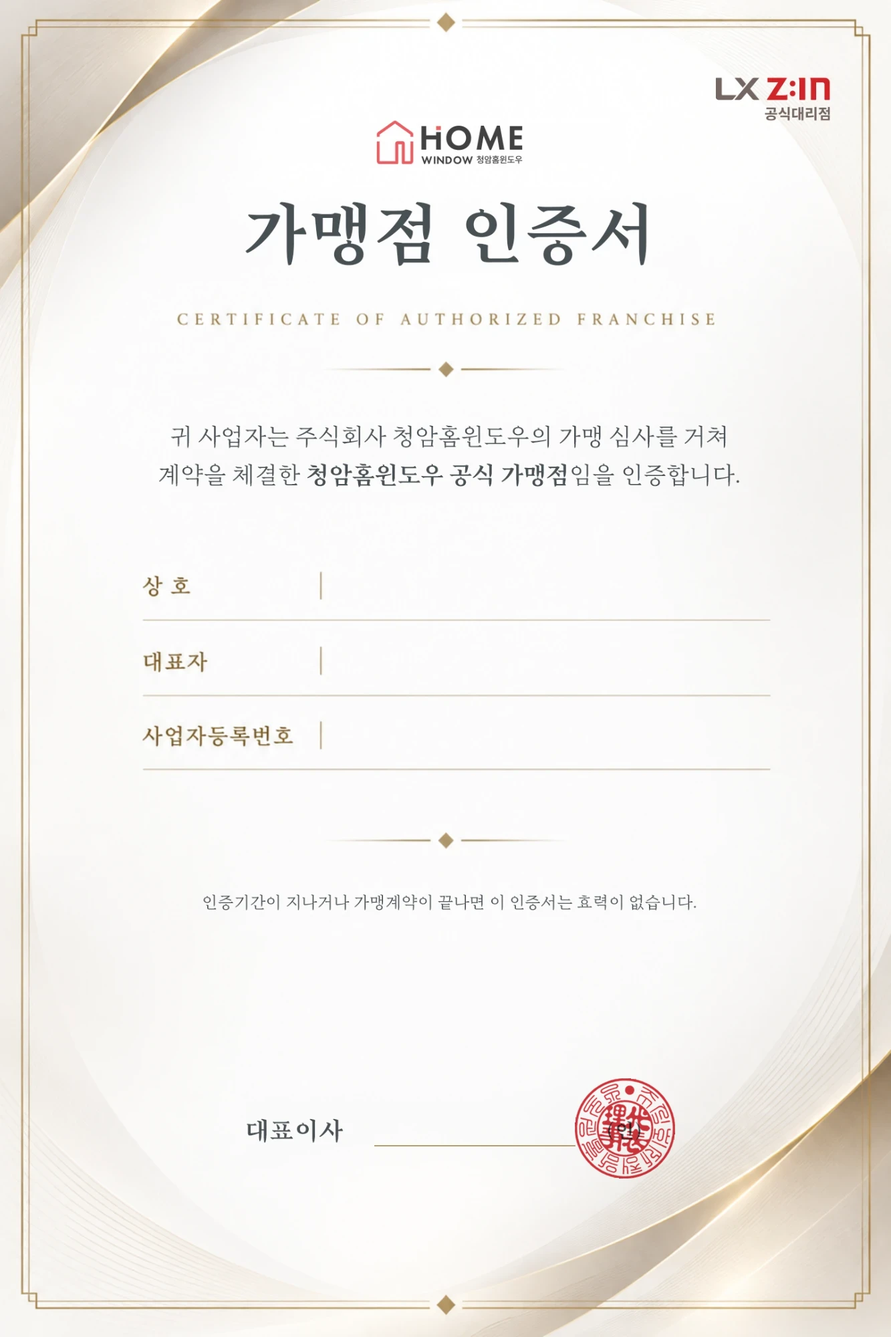
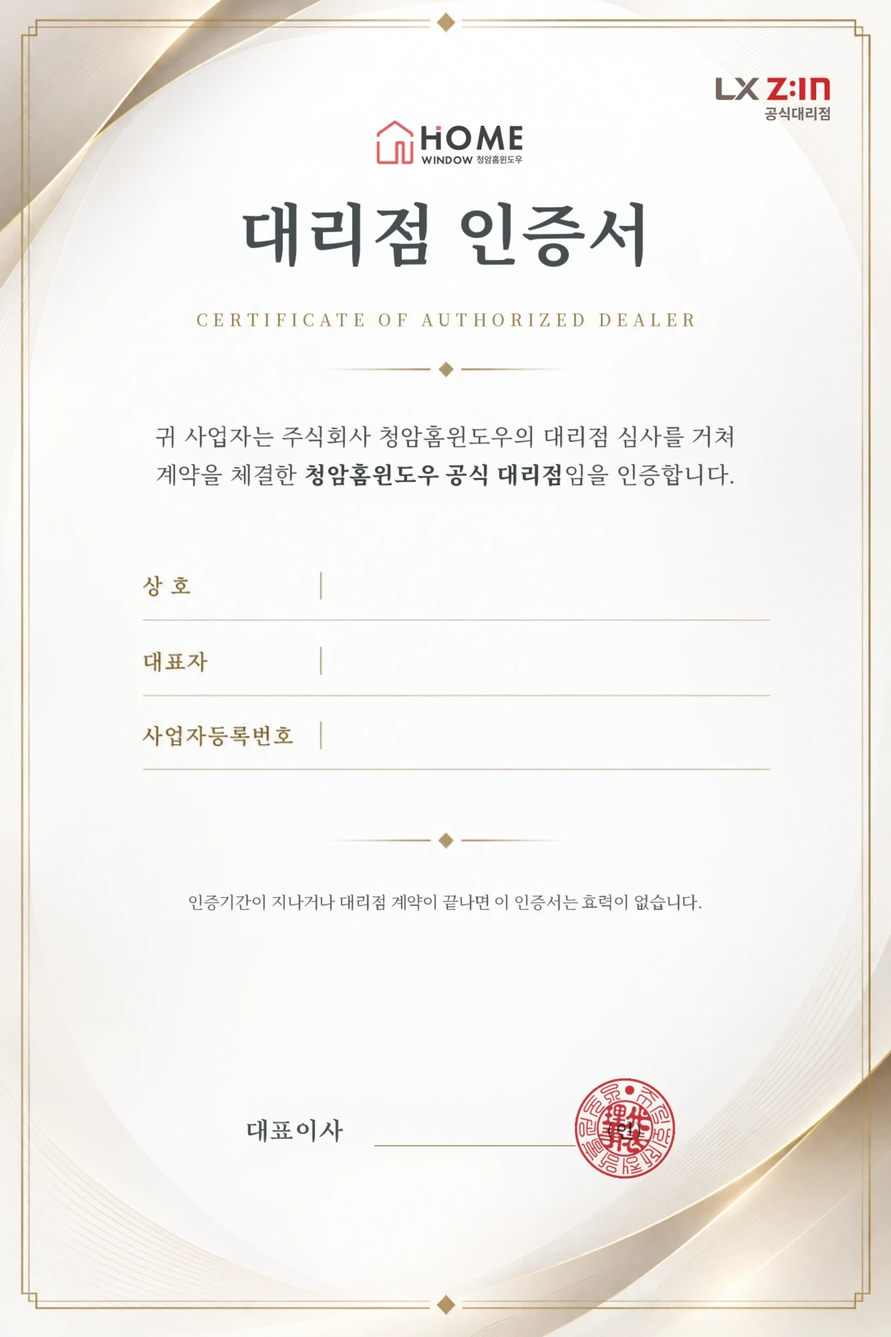
홈페이지 명칭 변경: 가맹점 → 대리점 (보증 섹션 목록·인증서 포함)
- 15년 보증 섹션 아래 목록·지도·인증서: 화면 글자와 인증서 그림(franchise-cert-bg.webp)의
  "가맹점 인증서 / 공식 가맹점 / 가맹 심사 / 가맹계약"을 대리점으로 바꿈.
  그림은 같은 글꼴(Noto Serif KR)로 그 줄만 지우고 다시 써서 도장·양식은 그대로.
- 보증·시공 안내, 자주 묻는 질문, AI 상담 첫 인사, 개인정보 동의·처리방침,
  견적 퍼널 동의문, 검색용 설명(meta·llms.txt)도 대리점으로 통일.
- FAQ "지역 대리점 단위로 움직이는 곳" (타사 설명)은 우리 명칭과 겹쳐 "지역 단위로만 영업하는 곳"으로.
- 코드 주석·내부 코드명(franchise)은 그대로.

diff --git a/src/app/data/faqData.ts b/src/app/data/faqData.ts
@@ -17,7 +17,7 @@ export const guideFaqs: FaqItem[] = [
   {
     q: "창호 교체 업체는 어떻게 골라야 하나요?",
     lead: "가장 먼저 볼 것은 '누가 끝까지 책임지는가'입니다.",
-    body: "청암홈윈도우는 본사가 직접 만든 창을 지역 가맹점이 시공합니다. 제품 보증은 본사가, 시공과 A/S는 계약하신 가맹점이 맡아 책임 소재가 분명합니다.",
+    body: "청암홈윈도우는 본사가 직접 만든 창을 지역 대리점이 시공합니다. 제품 보증은 본사가, 시공과 A/S는 계약하신 대리점이 맡아 책임 소재가 분명합니다.",
   },
   {
     q: "믿을 수 있는 창호 회사인지 어떻게 확인하나요?",
@@ -27,17 +27,17 @@ export const guideFaqs: FaqItem[] = [
   {
     q: "창호 A/S(보증)가 오래가는 업체가 있나요?",
     lead: "창호는 한 번 바꾸면 10년 이상 씁니다.",
-    body: "청암홈윈도우 창호는 업계 최고 수준의 15년 무상보증으로, 타사 평균의 3배가 넘는 기간입니다. 시공과 A/S는 계약하신 지역 가맹점이 맡으므로, 시공 후 문의는 계약 가맹점으로 해 주세요.",
+    body: "청암홈윈도우 창호는 업계 최고 수준의 15년 무상보증으로, 타사 평균의 3배가 넘는 기간입니다. 시공과 A/S는 계약하신 지역 대리점이 맡으므로, 시공 후 문의는 계약 대리점으로 해 주세요.",
   },
   {
     q: "전국 어디서나 시공되는 창호 업체가 있나요?",
-    lead: "지역 대리점 단위로 움직이는 곳이 많아, 지역에 따라 시공이 제한되기도 합니다.",
-    body: "청암홈윈도우는 3만 8천 평 자동화 공장에서 만든 창을 전국 가맹점에서 상담·시공합니다. 가까운 지역 가맹점을 연결해 드립니다.",
+    lead: "지역 단위로만 영업하는 곳이 많아, 지역에 따라 시공이 제한되기도 합니다.",
+    body: "청암홈윈도우는 3만 8천 평 자동화 공장에서 만든 창을 전국 대리점에서 상담·시공합니다. 가까운 지역 대리점을 연결해 드립니다.",
   },
   {
     q: "청암홈윈도우는 어떤 회사인가요?",
-    lead: "청암홈윈도우는 1996년부터 창호를 만들어 온 완성창 전문기업입니다. 본사가 창을 만들고, 지역 가맹점이 시공·A/S를 맡습니다.",
-    body: "3만 8천 평 자동화 공장에서 LX·KCC 정품 자재로 창을 만들고 전국 가맹점에서 상담·시공하며, 업계 최고 수준의 15년 무상보증을 제공합니다. 고객 후기 평점은 4.9입니다.",
+    lead: "청암홈윈도우는 1996년부터 창호를 만들어 온 완성창 전문기업입니다. 본사가 창을 만들고, 지역 대리점이 시공·A/S를 맡습니다.",
+    body: "3만 8천 평 자동화 공장에서 LX·KCC 정품 자재로 창을 만들고 전국 대리점에서 상담·시공하며, 업계 최고 수준의 15년 무상보증을 제공합니다. 고객 후기 평점은 4.9입니다.",
   },
 ];
 
@@ -45,7 +45,7 @@ export const generalFaqs: FaqItem[] = [
   {
     q: "완성창과 제작창은 무엇이 다른가요?",
     lead: "가장 큰 차이는 '누가 끝까지 책임지느냐'입니다.",
-    body: "제작창은 자재를 사다 현장에서 짜맞추는 방식이라 품질이 들쭉날쭉합니다. 청암홈윈도우 완성창은 본사 공장에서 완제품으로 만들어 지역 가맹점이 설치하므로 품질이 일정합니다.",
+    body: "제작창은 자재를 사다 현장에서 짜맞추는 방식이라 품질이 들쭉날쭉합니다. 청암홈윈도우 완성창은 본사 공장에서 완제품으로 만들어 지역 대리점이 설치하므로 품질이 일정합니다.",
   },
   {
     q: "이중창과 단창은 무엇이 다른가요? 어떤 걸 골라야 하나요?",
@@ -85,12 +85,12 @@ export const generalFaqs: FaqItem[] = [
   {
     q: "창호 A/S(보증)는 몇 년인가요?",
     lead: "청암홈윈도우는 업계 최고 수준의 15년 무상보증을 제공합니다.",
-    body: "타사 평균의 3배가 넘는 기간입니다. 시공과 A/S는 계약하신 지역 가맹점이 맡으므로 시공 후 문의는 계약 가맹점으로 해 주세요. 그 밖의 문의는 대표전화 1661-4830으로 연락 주세요.",
+    body: "타사 평균의 3배가 넘는 기간입니다. 시공과 A/S는 계약하신 지역 대리점이 맡으므로 시공 후 문의는 계약 대리점으로 해 주세요. 그 밖의 문의는 대표전화 1661-4830으로 연락 주세요.",
   },
   {
     q: "전국 어디나 시공이 가능한가요?",
-    lead: "가능합니다. 청암홈윈도우는 3만 8천 평 자동화 공장에서 창을 직접 제작하고, 전국 가맹점에서 상담·시공합니다.",
-    body: "상담을 남겨 주시면 지역 가맹점이 방문 실측부터 시공까지 진행해 드립니다.",
+    lead: "가능합니다. 청암홈윈도우는 3만 8천 평 자동화 공장에서 창을 직접 제작하고, 전국 대리점에서 상담·시공합니다.",
+    body: "상담을 남겨 주시면 지역 대리점이 방문 실측부터 시공까지 진행해 드립니다.",
   },
   {
     q: "아파트도 되고 단독주택도 시공되나요?",

diff --git a/index.html b/index.html
@@ -32,7 +32,7 @@
         name="viewport"
         content="width=device-width, initial-scale=1.0, interactive-widget=resizes-visual"
       />
-      <meta name="description" content="38,000평 자동화 공장에서 직접 제조하고 전국 가맹점에서 상담·시공. LX 수퍼더블로이·TPS 단열간봉·아르곤가스·안전방충망. 업계 최장 15년 무상보증. 대한민국 유일의 완성창 창호시공 전문기업 청암홈윈도우. 무료견적 1661-4830">
+      <meta name="description" content="38,000평 자동화 공장에서 직접 제조하고 전국 대리점에서 상담·시공. LX 수퍼더블로이·TPS 단열간봉·아르곤가스·안전방충망. 업계 최장 15년 무상보증. 대한민국 유일의 완성창 창호시공 전문기업 청암홈윈도우. 무료견적 1661-4830">
       <meta name="robots" content="index, follow, max-image-preview:large, max-snippet:-1">
       <link rel="canonical" href="https://homewindow.kr/" />
       <title>청암홈윈도우</title>
@@ -45,7 +45,7 @@
       <meta property="og:image:width" content="1200" />
       <meta property="og:image:height" content="630" />
       <meta property="og:title" content="청암홈윈도우" />
-      <meta property="og:description" content="38,000평 자동화 공장 직접 제조·전국 가맹점 상담·시공. LX 수퍼더블로이·TPS·15년 무상보증. 대한민국 유일 완성창 창호시공 전문기업 청암홈윈도우" />
+      <meta property="og:description" content="38,000평 자동화 공장 직접 제조·전국 대리점 상담·시공. LX 수퍼더블로이·TPS·15년 무상보증. 대한민국 유일 완성창 창호시공 전문기업 청암홈윈도우" />
       <meta property="og:type" content="website" />
       <meta property="og:url" content="https://homewindow.kr/" />
       <meta name="twitter:card" content="summary_large_image" />
@@ -83,7 +83,7 @@
         "url": "https://homewindow.kr",
         "logo": "https://homewindow.kr/abcon.jpg",
         "image": "https://homewindow.kr/soimg.jpg",
-        "description": "38,000평 자동화 공장에서 직접 제조하고 전국 가맹점에서 상담·시공하는 대한민국 유일의 완성창 창호시공 전문기업. 업계 최장 15년 무상보증.",
+        "description": "38,000평 자동화 공장에서 직접 제조하고 전국 대리점에서 상담·시공하는 대한민국 유일의 완성창 창호시공 전문기업. 업계 최장 15년 무상보증.",
         "slogan": "창호 교체, 믿을 수 있는 곳에서 한번에",
         "telephone": "+82-1661-4830",
         "email": "homewindow@ca1996.co.kr",
@@ -126,7 +126,7 @@
           "worstRating": "1"
         },
         "makesOffer": [
-          { "@type": "Offer", "itemOffered": { "@type": "Service", "name": "창호(샷시) 교체 시공", "description": "완성창 방식. 본사 공장 제작, 지역 가맹점 시공, 15년 무상보증." } },
+          { "@type": "Offer", "itemOffered": { "@type": "Service", "name": "창호(샷시) 교체 시공", "description": "완성창 방식. 본사 공장 제작, 지역 대리점 시공, 15년 무상보증." } },
           { "@type": "Offer", "itemOffered": { "@type": "Service", "name": "안전방충망 시공" } }
         ],
         "hasOfferCatalog": {
@@ -177,7 +177,7 @@
         "provider": { "@id": "https://homewindow.kr/#business" },
         "areaServed": { "@type": "Country", "name": "대한민국" },
         "audience": { "@type": "Audience", "audienceType": "아파트·빌라(다세대)·단독주택 거주자" },
-        "description": "1996년 설립, 38,000평 자동화 공장에서 LX·KCC 정품 자재로 직접 제작하고 전국 가맹점이 원데이 시공. 업계 최장 15년 무상보증.",
+        "description": "1996년 설립, 38,000평 자동화 공장에서 LX·KCC 정품 자재로 직접 제작하고 전국 대리점이 원데이 시공. 업계 최장 15년 무상보증.",
         "offers": {
           "@type": "Offer",
           "priceCurrency": "KRW",

diff --git a/src/app/components/FranchiseMap.tsx b/src/app/components/FranchiseMap.tsx
@@ -99,7 +99,7 @@ export function FranchiseMap() {
   }, [inView, map]);
   const franchises = useFranchises();
   const [query, setQuery] = useState("");
-  const [selected, setSelected] = useState<string | null>(null); // 선택한 가맹점 id
+  const [selected, setSelected] = useState<string | null>(null); // 선택한 대리점 id
   const listRef = useRef<HTMLDivElement>(null);
   const [cert, setCert] = useState<Franchise | null>(null); // 인증서 모달
 
@@ -166,13 +166,13 @@ export function FranchiseMap() {
 
   return (
     /* id: 개인정보처리방침 「가맹점 목록 보기」 링크가 여기로 온다 (261116) */
-    <div id="franchise-list" className="mt-12 md:mt-16 scroll-mt-20" aria-label="전국 가맹점">
+    <div id="franchise-list" className="mt-12 md:mt-16 scroll-mt-20" aria-label="전국 대리점">
 
       <div className="grid md:grid-cols-[1.08fr_.92fr] gap-8 md:gap-5 md:items-stretch">
       {/* 지도 */}
       <div ref={mapBoxRef} className={`relative w-full max-w-[480px] mx-auto md:max-w-none ${inView ? "fm-in" : ""} ${dropDone ? "fm-done" : ""}`} style={{ aspectRatio: `${VIEW[2]} / ${VIEW[3]}` }}>
         {map && (
-          <svg viewBox={VIEW.join(" ")} className="w-full h-full overflow-visible" role="img" aria-label="전국 가맹점 지도">
+          <svg viewBox={VIEW.join(" ")} className="w-full h-full overflow-visible" role="img" aria-label="전국 대리점 지도">
             <defs>
               {/* 윗면 원근감: 먼 북쪽은 밝은 회색 → 가까운 남쪽(남해안·제주)은 흰색.
                   화면 좌표 기준(userSpaceOnUse) — 북쪽 끝 y≈30, 남해안 y≈470 */}
@@ -280,7 +280,7 @@ export function FranchiseMap() {
               <div className="min-w-0 flex-1">
                 <div className="flex items-center gap-1.5">
                   <span className="truncate text-[15px] font-bold text-white">{f.name}</span>
-                  <BadgeCheck className="w-4 h-4 text-[#D22727] shrink-0" aria-label="인증 가맹점" />
+                  <BadgeCheck className="w-4 h-4 text-[#D22727] shrink-0" aria-label="인증 대리점" />
                   {f.region && <span className="ml-auto pl-2 shrink-0 text-[12px] font-semibold text-[#888]">{f.region}</span>}
                 </div>
                 {f.bizNo && <p className="text-[12.5px] text-[#999] mt-0.5 tabular-nums whitespace-nowrap">사업자등록번호 {f.bizNo}</p>}
@@ -331,7 +331,7 @@ function CertModal({ f, onClose }: { f: Franchise | null; onClose: () => void })
 
   const field = "absolute left-[39%] right-[13.5%] -translate-y-1/2 text-left font-semibold text-[#495055] truncate";
   return (
-    <div className="fixed inset-0 z-50 flex items-center justify-center p-4 pb-[116px] md:pb-[150px]" role="dialog" aria-modal="true" aria-label="가맹점 인증서">
+    <div className="fixed inset-0 z-50 flex items-center justify-center p-4 pb-[116px] md:pb-[150px]" role="dialog" aria-modal="true" aria-label="대리점 인증서">
       <div className="absolute inset-0 bg-black/65" onClick={onClose} />
       {/* 인증서 + 아래 닫기 버튼 (폭은 화면 높이에 맞춰 줄어든다: 버튼 높이 46px 을 빼고 계산) */}
       <div className="relative fm-cert flex flex-col gap-2.5" style={{ width: "min(100%, 460px, calc((100vh - 2rem - 150px - 46px) * 0.6665))" }}>
@@ -343,7 +343,7 @@ function CertModal({ f, onClose }: { f: Franchise | null; onClose: () => void })
             쉽게 저장되지 않게 우클릭·끌어서 저장을 막는다 */}
         <img
           src={certBg}
-          alt="청암홈윈도우 가맹점 인증서"
+          alt="청암홈윈도우 대리점 인증서"
           className="absolute inset-0 w-full h-full rounded-md select-none pointer-events-none"
           draggable={false}
         />

diff --git a/src/app/components/WarrantySection.tsx b/src/app/components/WarrantySection.tsx
@@ -62,7 +62,7 @@ export function WarrantySection() {
                 창호는 한 번 바꾸면 10년 이상을 씁니다. 타사 대비 <span className="text-[#eee] font-bold">평균 3배 이상 긴 보증 기간</span>으로 오래 안심하실 수 있습니다.
               </p>
               <p>
-                제품 보증은 청암홈윈도우 본사가 책임지고, <span className="text-[#eee] font-bold">시공과 A/S는 계약하신 지역 가맹점</span>이 맡습니다. 시공 후 문제가 생기면 계약하신 가맹점으로 문의해 주세요.
+                제품 보증은 청암홈윈도우 본사가 책임지고, <span className="text-[#eee] font-bold">시공과 A/S는 계약하신 지역 대리점</span>이 맡습니다. 시공 후 문제가 생기면 계약하신 대리점으로 문의해 주세요.
               </p>
             </motion.div>
           </div>
@@ -114,7 +114,7 @@ export function WarrantySection() {
             {/* ⚠ 스케일 조절: overflow-hidden을 overflow-auto로 바꾸고, 아래 transform scale 값을 조절하세요 (예: 1.2, 1.5 등) */}
             <img
               src={serviceMap}
-              alt="전국 시공·A/S 가맹점 네트워크 지도"
+              alt="전국 시공·A/S 대리점 네트워크 지도"
               className="w-full h-auto object-contain"
               style={{ transform: "scale(1.2)" }}
               loading="lazy"
@@ -221,7 +221,7 @@ export function WarrantySection() {
             transition={{ duration: 0.5, delay: 0.4 }}
             className="text-[#999] text-[16px] leading-[26px] break-keep mb-6"
           >
-            제품 보증은 청암홈윈도우 본사가 책임지고, <span className="text-[#eee] font-bold">시공과 A/S는 계약하신 지역 가맹점</span>이 맡습니다. 시공 후 문제가 생기면 계약하신 가맹점으로 문의해 주세요.
+            제품 보증은 청암홈윈도우 본사가 책임지고, <span className="text-[#eee] font-bold">시공과 A/S는 계약하신 지역 대리점</span>이 맡습니다. 시공 후 문제가 생기면 계약하신 대리점으로 문의해 주세요.
           </motion.p>
 
           {SHOW_SERVICE_MAP && (<>
@@ -235,7 +235,7 @@ export function WarrantySection() {
           >
             <img
               src={serviceMap}
-              alt="전국 시공·A/S 가맹점 네트워크 지도"
+              alt="전국 시공·A/S 대리점 네트워크 지도"
               className="w-full h-auto object-contain mx-[0px] mt-[0px] mb-[-27px]"
               loading="lazy"
               decoding="async"

diff --git a/public/request/quote.html b/public/request/quote.html
@@ -106,7 +106,7 @@ height="0" width="0" style="display:none;visibility:hidden"></iframe></noscript>
 
     <p class="disclaim">
       수집 항목은 연락처·상담 지역·상담 내용입니다. 접수된 상담은 고객님이 선택하신 지역을 담당하는
-      청암홈윈도우 가맹점에 제공되어 방문 상담·견적·시공에 활용되며, 서비스 종료 시 또는 동의 철회 시까지 보관합니다.
+      청암홈윈도우 대리점에 제공되어 방문 상담·견적·시공에 활용되며, 서비스 종료 시 또는 동의 철회 시까지 보관합니다.
     </p>
   </div>
 
@@ -119,7 +119,7 @@ height="0" width="0" style="display:none;visibility:hidden"></iframe></noscript>
 <div class="ctafix hidden" id="ctafix">
   <div class="ctafix-in">
     <p class="consent-mini">
-      버튼을 누르면 개인정보 수집·이용 및 제3자(가맹점) 제공에 동의하는 것으로 봅니다.
+      버튼을 누르면 개인정보 수집·이용 및 제3자(대리점) 제공에 동의하는 것으로 봅니다.
       <button type="button" id="open-policy">전문 보기</button>
     </p>
     <button type="button" class="btn-primary" id="send">견적 받기</button>
@@ -141,11 +141,11 @@ height="0" width="0" style="display:none;visibility:hidden"></iframe></noscript>
       이용 목적: 상담 신청 접수, 견적 안내, 상담 진행을 위한 연락<br>
       보유·이용기간: 서비스 종료 시까지(삭제를 요청하시면 지체 없이 파기)</p>
       <p><strong>[필수] 개인정보 제3자 제공 동의</strong><br>
-      제공받는 자: 고객님이 선택하신 지역을 담당하는 청암홈윈도우 가맹점<br>
+      제공받는 자: 고객님이 선택하신 지역을 담당하는 청암홈윈도우 대리점<br>
       제공 목적: 방문 상담·실측·견적, 계약 체결, 시공 및 A/S 진행<br>
       제공 항목: 휴대전화번호, 상담 지역, 상담 내용<br>
       보유·이용기간: 서비스 종료 시까지(삭제를 요청하시면 지체 없이 파기)</p>
-      <p>가맹점은 회사와 별개의 사업자이며, 계약·시공·A/S는 제공받은 가맹점이 직접 진행합니다.
+      <p>대리점은 회사와 별개의 사업자이며, 계약·시공·A/S는 제공받은 대리점이 직접 진행합니다.
       위 동의를 거부하실 수 있으나, 거부하시면 상담 신청이 접수되지 않습니다.
       <a href="/privacy">개인정보처리방침 전체 보기</a></p>
       <p class="dates">공고일자 2026년 9월 23일 · 시행일자 2026년 9월 23일</p>

diff --git a/public/request/region.html b/public/request/region.html
@@ -99,7 +99,7 @@ height="0" width="0" style="display:none;visibility:hidden"></iframe></noscript>
 
   <p class="disclaim">
     수집 항목은 연락처·상담 지역·상담 내용입니다. 접수된 상담은 고객님이 선택하신 지역을 담당하는
-    청암홈윈도우 가맹점에 제공되어 방문 상담·견적·시공에 활용되며, 서비스 종료 시 또는 동의 철회 시까지 보관합니다.
+    청암홈윈도우 대리점에 제공되어 방문 상담·견적·시공에 활용되며, 서비스 종료 시 또는 동의 철회 시까지 보관합니다.
   </p>
 
 </main>
@@ -107,7 +107,7 @@ height="0" width="0" style="display:none;visibility:hidden"></iframe></noscript>
 <div class="ctafix">
   <div class="ctafix-in">
     <p class="consent-mini">
-      버튼을 누르면 개인정보 수집·이용 및 제3자(가맹점) 제공에 동의하는 것으로 봅니다.
+      버튼을 누르면 개인정보 수집·이용 및 제3자(대리점) 제공에 동의하는 것으로 봅니다.
       <button type="button" id="open-policy">전문 보기</button>
     </p>
     <button type="button" class="btn-primary" id="send">상담 신청하기</button>
@@ -155,11 +155,11 @@ height="0" width="0" style="display:none;visibility:hidden"></iframe></noscript>
       이용 목적: 상담 신청 접수, 견적 안내, 상담 진행을 위한 연락<br>
       보유·이용기간: 서비스 종료 시까지(삭제를 요청하시면 지체 없이 파기)</p>
       <p><strong>[필수] 개인정보 제3자 제공 동의</strong><br>
-      제공받는 자: 고객님이 선택하신 지역을 담당하는 청암홈윈도우 가맹점<br>
+      제공받는 자: 고객님이 선택하신 지역을 담당하는 청암홈윈도우 대리점<br>
       제공 목적: 방문 상담·실측·견적, 계약 체결, 시공 및 A/S 진행<br>
       제공 항목: 휴대전화번호, 상담 지역, 상담 내용<br>
       보유·이용기간: 서비스 종료 시까지(삭제를 요청하시면 지체 없이 파기)</p>
-      <p>가맹점은 회사와 별개의 사업자이며, 계약·시공·A/S는 제공받은 가맹점이 직접 진행합니다.
+      <p>대리점은 회사와 별개의 사업자이며, 계약·시공·A/S는 제공받은 대리점이 직접 진행합니다.
       위 동의를 거부하실 수 있으나, 거부하시면 상담 신청이 접수되지 않습니다.
       <a href="/privacy">개인정보처리방침 전체 보기</a></p>
       <p class="dates">공고일자 2026년 9월 23일 · 시행일자 2026년 9월 23일</p>

diff --git a/functions/_middleware.ts b/functions/_middleware.ts
@@ -15,7 +15,7 @@ import { guideFaqs, generalFaqs, type FaqItem } from "../src/app/data/faqData";
 const SITE = "https://homewindow.kr";
 
 const HOME_DESC =
-  "38,000평 자동화 공장에서 직접 제조하고 전국 가맹점에서 상담·시공. LX 수퍼더블로이·TPS 단열간봉·아르곤가스·안전방충망. 업계 최장 15년 무상보증. 대한민국 유일의 완성창 창호시공 전문기업 청암홈윈도우. 무료견적 1661-4830";
+  "38,000평 자동화 공장에서 직접 제조하고 전국 대리점에서 상담·시공. LX 수퍼더블로이·TPS 단열간봉·아르곤가스·안전방충망. 업계 최장 15년 무상보증. 대한민국 유일의 완성창 창호시공 전문기업 청암홈윈도우. 무료견적 1661-4830";
 
 interface RouteMeta {
   title: string;
@@ -26,13 +26,13 @@ interface RouteMeta {
 
 const ROUTES: Record<string, RouteMeta> = {
   "/": {
-    title: "청암홈윈도우 | 완성창 창호 교체·시공 · 전국 가맹점 · 15년 무상보증",
+    title: "청암홈윈도우 | 완성창 창호 교체·시공 · 전국 대리점 · 15년 무상보증",
     description: HOME_DESC,
   },
   "/faq": {
     title: "창호 교체 업체 선택 가이드 (FAQ) | 청암홈윈도우",
     description:
-      "창호 교체 업체를 고르는 기준 — 완성창 여부, 15년 무상보증, 공인 실적, 전국 가맹점 상담·시공. 청암홈윈도우가 실적으로 답합니다.",
+      "창호 교체 업체를 고르는 기준 — 완성창 여부, 15년 무상보증, 공인 실적, 전국 대리점 상담·시공. 청암홈윈도우가 실적으로 답합니다.",
     faqs: guideFaqs,
     breadcrumb: [
       ["홈", "/"],
@@ -52,7 +52,7 @@ const ROUTES: Record<string, RouteMeta> = {
   },
   "/privacy": {
     title: "개인정보처리방침 | 청암홈윈도우",
-    description: "주식회사 청암홈윈도우 개인정보처리방침 — 수집 항목, 보유 기간, 가맹점 제공, 처리 위탁, 국외 이전, 보호책임자 안내.",
+    description: "주식회사 청암홈윈도우 개인정보처리방침 — 수집 항목, 보유 기간, 대리점 제공, 처리 위탁, 국외 이전, 보호책임자 안내.",
   },
   "/partners": {
     title: "홈윈도우 파트너스 — 소개 파트너 모집 | 청암홈윈도우",

diff --git a/src/app/pages/PrivacyPolicyPage.tsx b/src/app/pages/PrivacyPolicyPage.tsx
@@ -197,7 +197,7 @@ export function Component() {
               rows={[
                 [
                   <>
-                    청암홈윈도우 가맹점
+                    청암홈윈도우 대리점
                     <br />
                     <span className="text-[#888] font-normal">(고객 거주 지역 담당)</span>
                   </>,
@@ -218,17 +218,17 @@ export function Component() {
               ]}
             />
             {/* 261116 "배정 후 안내" 는 실제로 문자를 보내지 않아 지킬 수 없는 문구 → 홈페이지 가맹점 목록 공개로 바꿈.
-                목록(/api/franchise/list)은 ERP 업체 마스터의 계약완료 가맹점과 자동으로 같아진다. */}
+                목록(/api/franchise/list)은 ERP 업체 마스터의 계약완료 대리점과 자동으로 같아진다. */}
             <Note>
-              ※ 개인정보를 제공받는 가맹점의 상호는 홈페이지{" "}
+              ※ 개인정보를 제공받는 대리점의 상호는 홈페이지{" "}
               <a
                 href="/"
                 onClick={() => sessionStorage.setItem("hw_scroll_to", "franchise-list")}
                 className="underline text-[#D22727]"
               >
-                가맹점 목록
+                대리점 목록
               </a>
-              에서 확인하실 수 있으며, 이 중 고객님이 선택하신 지역을 담당하는 가맹점에 제공됩니다.
+              에서 확인하실 수 있으며, 이 중 고객님이 선택하신 지역을 담당하는 대리점에 제공됩니다.
             </Note>
             <Note>
               ※ 정보주체는 제3자 제공에 동의하지 않을 수 있습니다. 다만 동의하지 않으면 방문 상담과 시공 서비스 이용이 제한될 수

diff --git a/src/app/components/PrivacyConsent.tsx b/src/app/components/PrivacyConsent.tsx
@@ -154,7 +154,7 @@ export function PrivacyConsentModal({
           <Item checked={provide} onToggle={() => set(collect, !provide)} title="개인정보 제3자 제공 동의">
             <Row
               label="제공받는 자"
-              value="고객님이 선택하신 지역을 담당하는 청암홈윈도우 가맹점 (방충망 단독 상담은 회사와 제휴한 방충망 전문업체)"
+              value="고객님이 선택하신 지역을 담당하는 청암홈윈도우 대리점 (방충망 단독 상담은 회사와 제휴한 방충망 전문업체)"
             />
             <Row label="제공 목적" value="방문 상담·실측·견적, 계약 체결, 시공 및 A/S 진행" />
             <Row label="제공 항목" value={items} />
@@ -162,7 +162,7 @@ export function PrivacyConsentModal({
           </Item>
 
           <p className="shrink-0 text-[12.5px] leading-[1.7] text-[#999] break-keep px-1">
-            가맹점은 회사와 별개의 사업자이며, 계약·시공·A/S는 제공받은 가맹점이 직접 진행합니다. 위 동의를 거부하실 수
+            대리점은 회사와 별개의 사업자이며, 계약·시공·A/S는 제공받은 대리점이 직접 진행합니다. 위 동의를 거부하실 수
             있으나, 거부하시면 상담 신청이 접수되지 않습니다. 개인정보 열람·정정·삭제·처리정지는 회사 고객센터로 요청하실 수
             있습니다.{" "}
             <a href="/privacy" target="_blank" rel="noopener" className="text-[#D22727] underline font-medium">

diff --git a/src/app/components/OneDayInstallationSection.tsx b/src/app/components/OneDayInstallationSection.tsx
@@ -58,7 +58,7 @@ export function OneDayInstallationSection() {
       icon: BadgeCheck, 
       isLast: true,
       subtitle: "15년 무상보증 시작",
-      description: "시공 완료와 동시에 업계 최장 15년 무상보증이 시작됩니다. 정식 보증서가 발급되며, 시공 후 A/S는 계약하신 가맹점이 맡습니다.",
+      description: "시공 완료와 동시에 업계 최장 15년 무상보증이 시작됩니다. 정식 보증서가 발급되며, 시공 후 A/S는 계약하신 대리점이 맡습니다.",
       imageUrl: "https://images.unsplash.com/photo-1761178334144-9715e83bf64b?crop=entropy&cs=tinysrgb&fit=max&fm=jpg&ixid=M3w3Nzg4Nzd8MHwxfHNlYXJjaHwxfHxxdWFsaXR5JTIwYXNzdXJhbmNlJTIwY2VydGlmaWNhdGV8ZW58MXx8fHwxNzc0NTkyNzY0fDA&ixlib=rb-4.1.0&q=80&w=1080"
     },
   ];

diff --git a/src/app/components/AiConsultChat.tsx b/src/app/components/AiConsultChat.tsx
@@ -92,7 +92,7 @@ export function AiConsultChat() {
       setConsultVia("window_consult_quote");
       setBranch("consultPhone");
     } else if (intent === "window_consult") {
-      push({ role: "bot", text: "네! 창호 상담이시군요.\n연락처와 시공 지역을 남겨주시면 담당자가 확인 후 지역 가맹점을 연결해 드릴게요." });
+      push({ role: "bot", text: "네! 창호 상담이시군요.\n연락처와 시공 지역을 남겨주시면 담당자가 확인 후 지역 대리점을 연결해 드릴게요." });
       setConsultVia("window_consult");
       setBranch("consultPhone");
     } else if (intent === "mesh_screen") {

diff --git a/src/app/components/ProductionSection.tsx b/src/app/components/ProductionSection.tsx
@@ -89,7 +89,7 @@ export function ProductionSection() {
               className="text-white/80 text-[16px] md:text-[18px] leading-[26px] break-keep mb-10"
             >
               <p>화려한 과장 광고보다 30년의 실적이 더 정직합니다.</p>
-              <p>3만 8천 평 자동화 공장에서 직접 생산하고, 전국 가맹점에서 상담받으실 수 있습니다.</p>
+              <p>3만 8천 평 자동화 공장에서 직접 생산하고, 전국 대리점에서 상담받으실 수 있습니다.</p>
             </motion.div>
 
             {/* 통계 배지 */}
